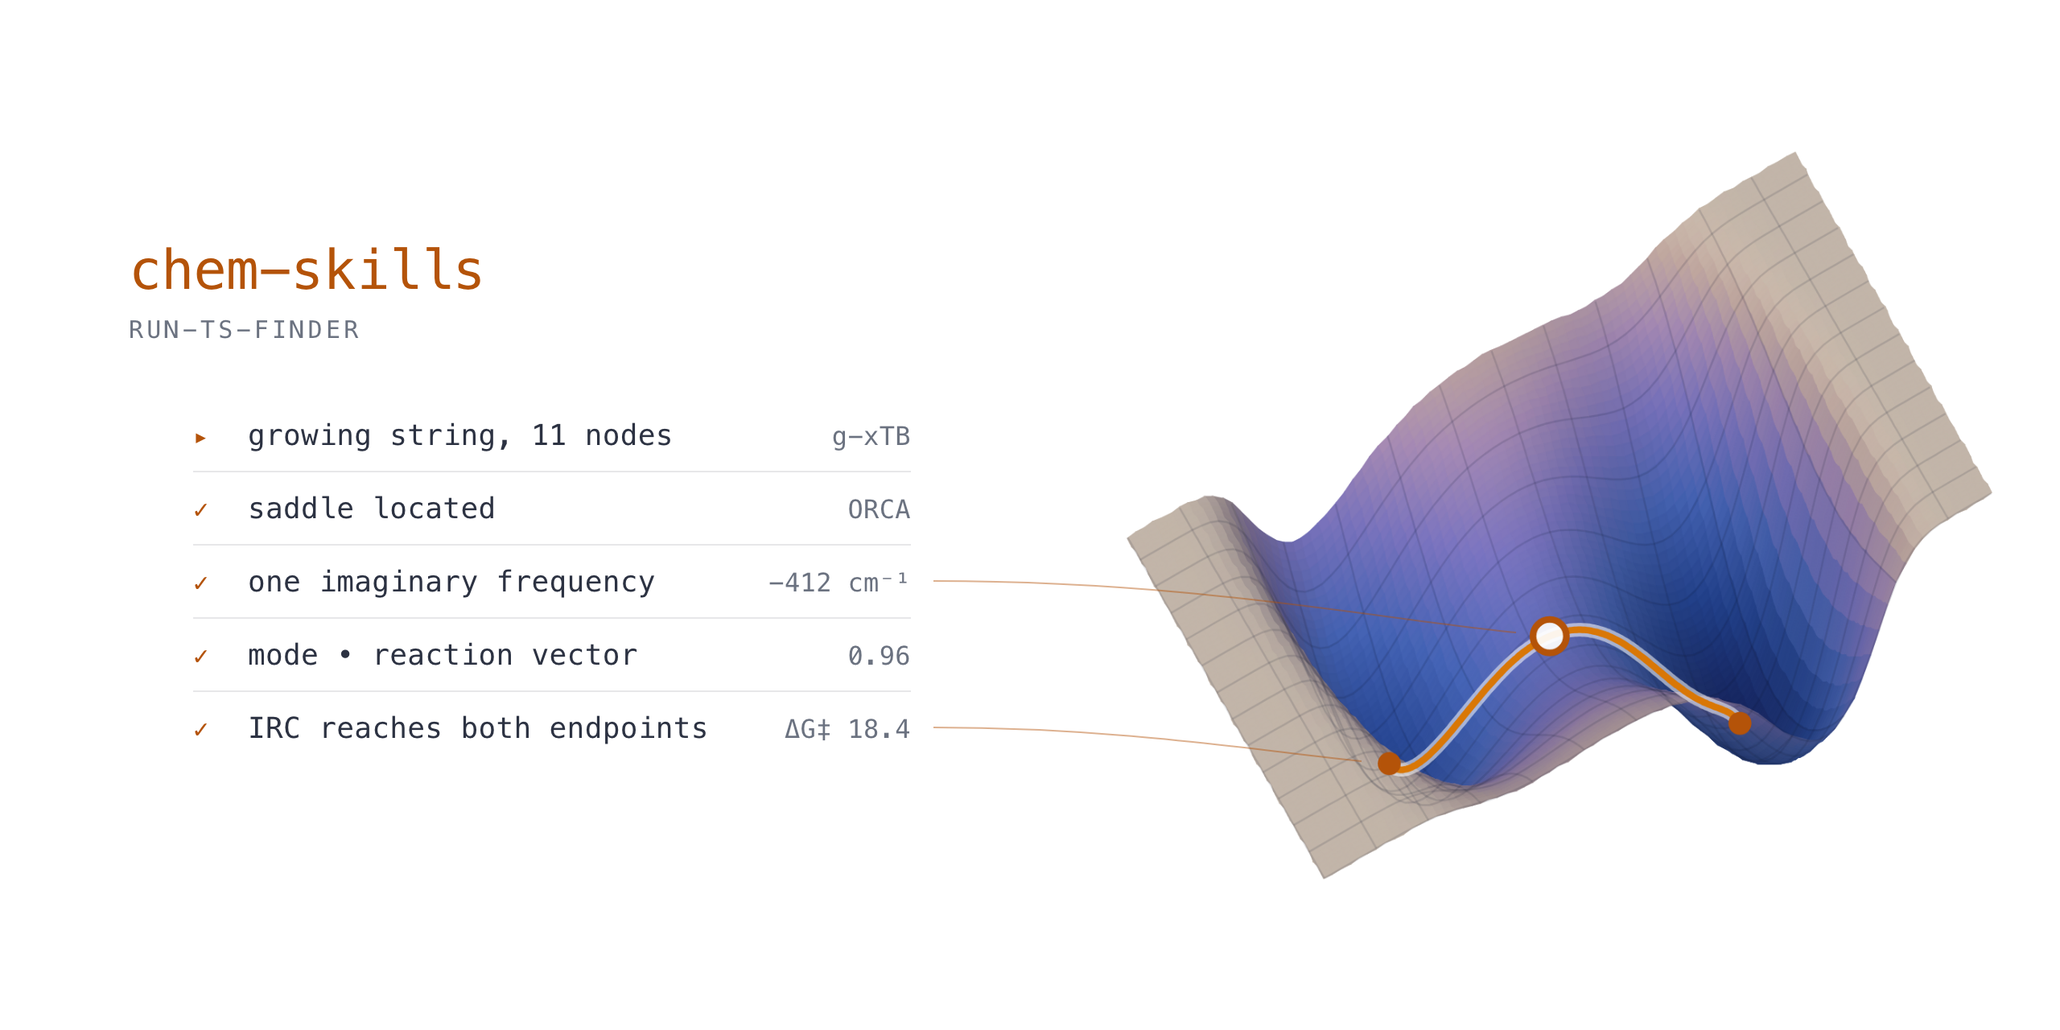
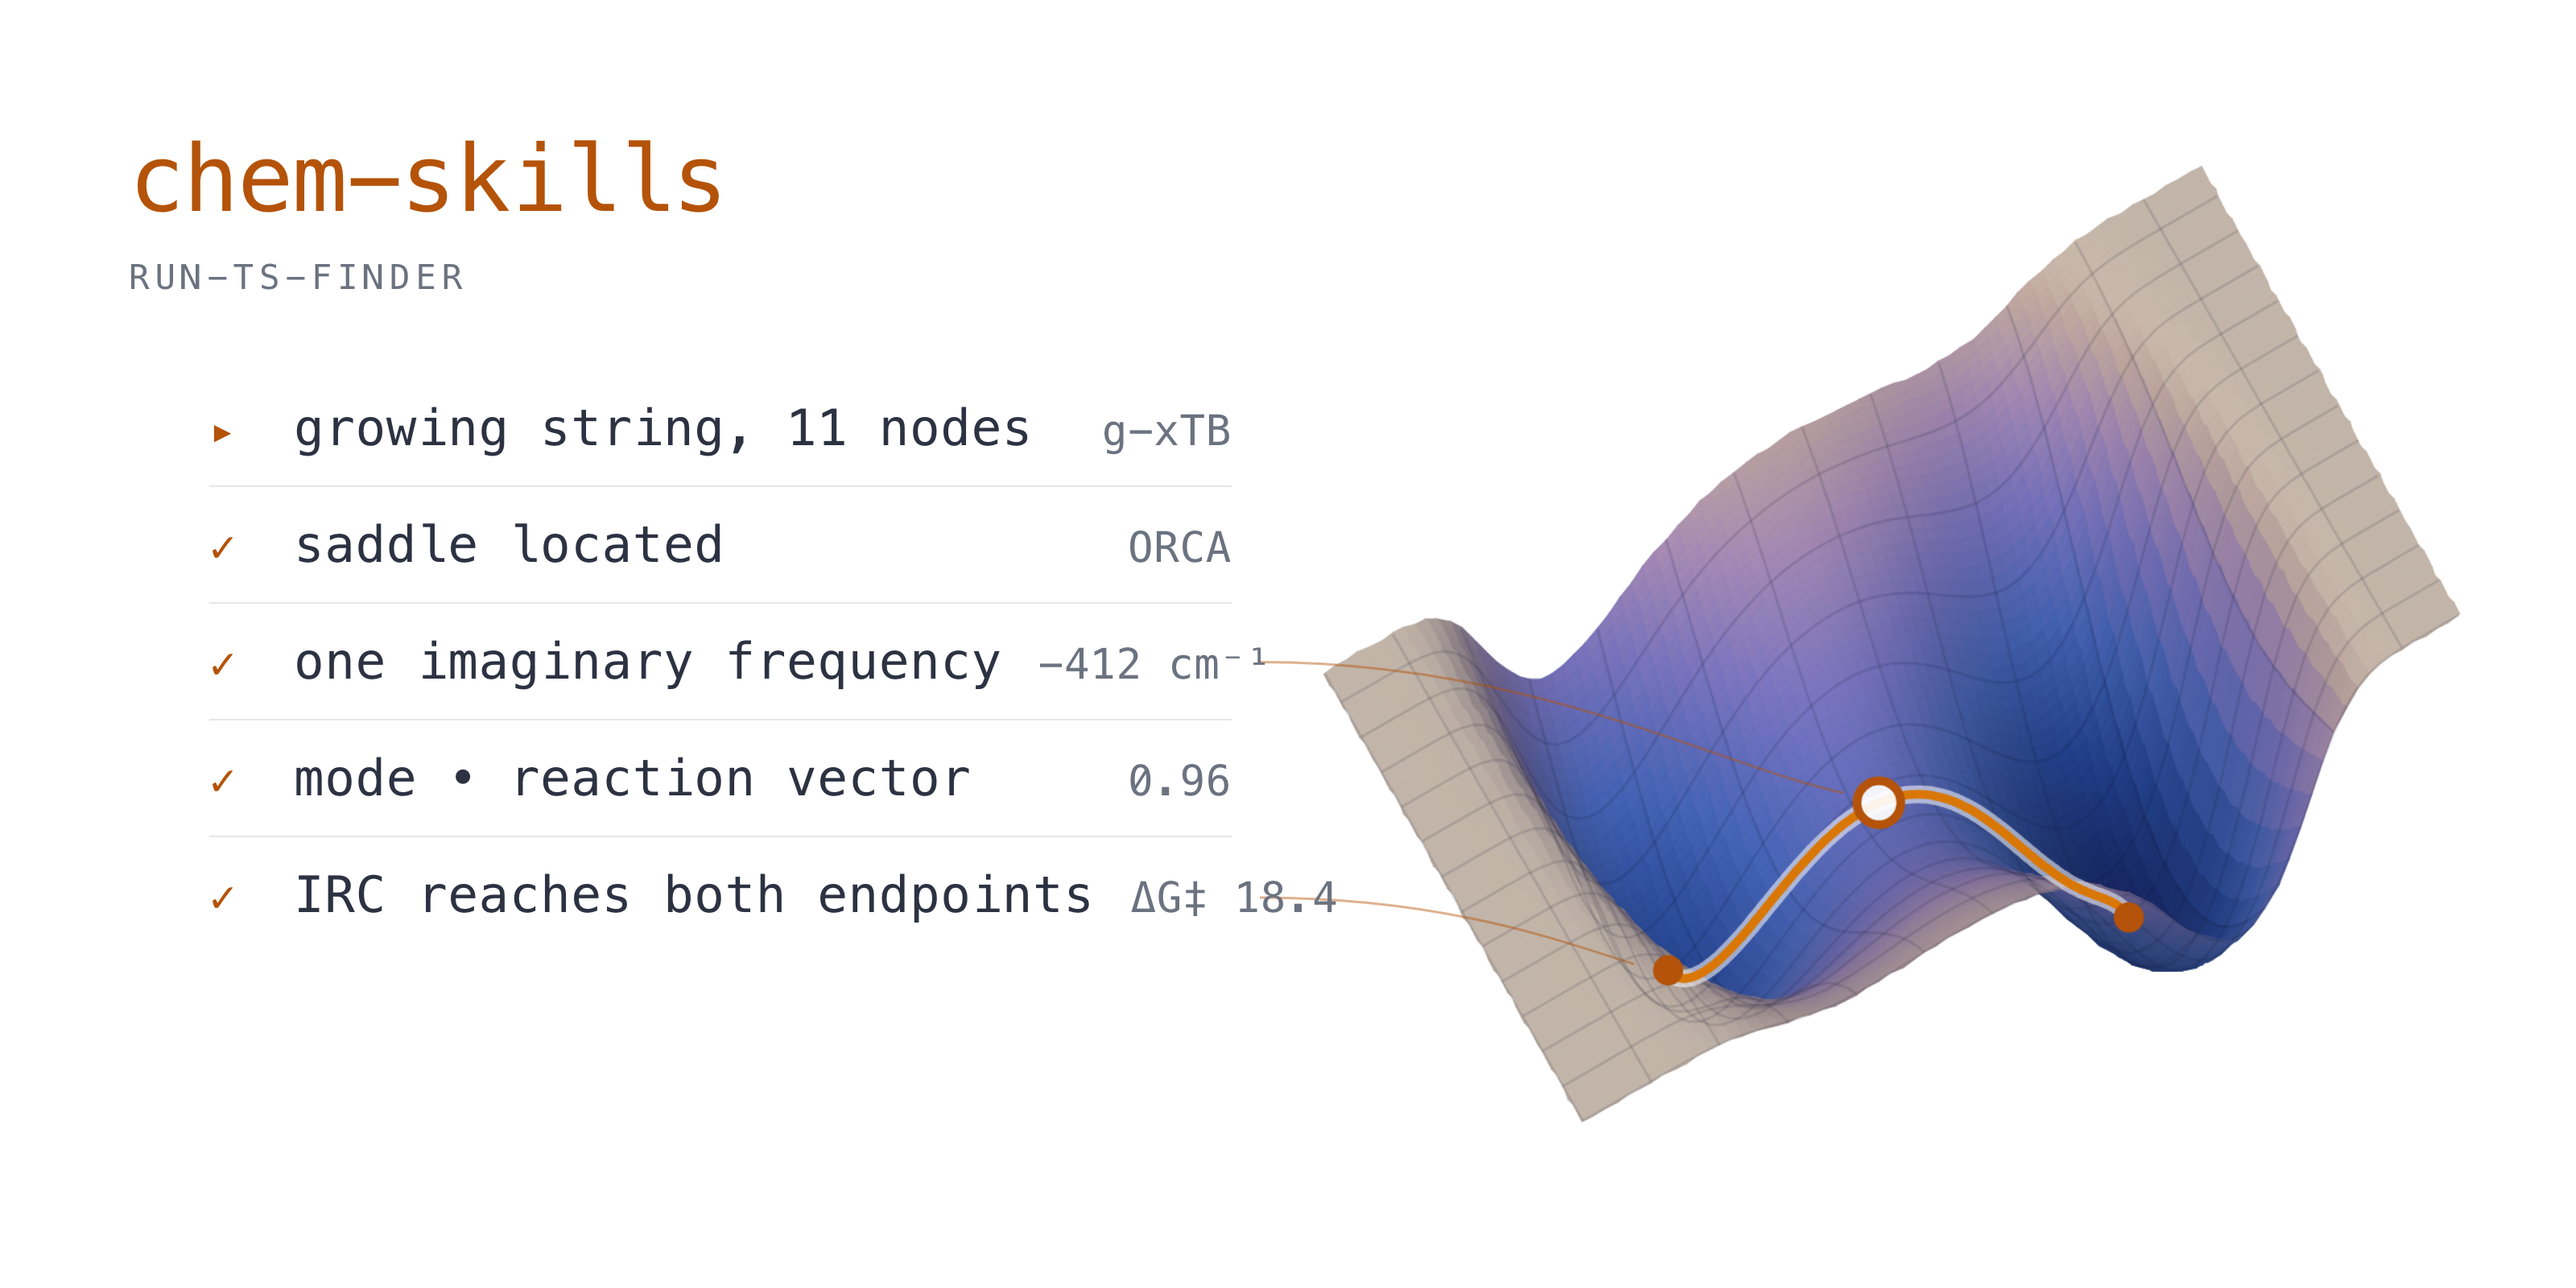
Tighten the header card and render it larger
The type was small inside the frame, so once GitHub scaled the image down
to the README column it read as soft rather than crisp - the fix is mostly
typographic, not a matter of pixels. The wordmark, the log and its values
all grow, the margins come in, and the surface is enlarged to meet them,
which takes most of the empty ground out of the frame.

Rendered at 2.5x rather than 2x: 3200x1600, and 854 KB, which stays under
the 1 MB ceiling on a repository social preview. 3x cleared that ceiling.

The two leader lines were anchored a row low. They now leave the imaginary
frequency and the IRC rows, which are the two they actually account for.

diff --git a/.github/social/social-preview.html b/.github/social/social-preview.html
@@ -5,25 +5,25 @@ html,body{width:1280px;height:640px;overflow:hidden;background:#ffffff}
 body{color:#16181d;font-family:'Instrument Sans',-apple-system,Arial,sans-serif;-webkit-font-smoothing:antialiased}
 .mono{font-family:'JetBrains Mono',ui-monospace,monospace}
 .frame{position:relative;width:1280px;height:640px}
-.surf{position:absolute;right:-104px;top:44px;width:830px;height:552px;
+.surf{position:absolute;right:-96px;top:-18px;width:872px;height:676px;
   background-image:url(surface.png);background-size:contain;
   background-repeat:no-repeat;background-position:center}
-.brand{position:absolute;left:80px;top:148px;font-size:34px;color:#b45309;letter-spacing:-.01em}
-.sub{position:absolute;left:80px;top:196px;font-size:15px;color:#6b7280;letter-spacing:.14em;text-transform:uppercase}
-.log{position:absolute;left:80px;top:248px;width:486px}
-.log li{list-style:none;display:flex;gap:16px;align-items:baseline;padding:12px 0;
-  border-bottom:1px solid rgba(16,24,40,.10);font-size:18px;letter-spacing:.01em}
+.brand{position:absolute;left:64px;top:66px;font-size:46px;color:#b45309;letter-spacing:-.015em;line-height:1}
+.sub{position:absolute;left:64px;top:128px;font-size:17px;color:#6b7280;letter-spacing:.16em;text-transform:uppercase}
+.log{position:absolute;left:64px;top:184px;width:548px}
+.log li{list-style:none;display:flex;gap:18px;align-items:baseline;padding:14px 0;
+  border-bottom:1px solid rgba(16,24,40,.11);font-size:25px;letter-spacing:.01em}
 .log li:last-child{border-bottom:0}
-.tick{width:18px;flex:none;color:#b45309;font-size:16px}
+.tick{width:24px;flex:none;color:#b45309;font-size:22px}
 .what{color:#2c3242;white-space:nowrap}
-.val{margin-left:auto;color:#6b7280;font-size:16px;white-space:nowrap}
+.val{margin-left:auto;color:#6b7280;font-size:21px;white-space:nowrap}
 .tie{position:absolute;left:0;top:0;width:1280px;height:640px}
 </style>
 <div class="frame">
   <div class="surf"></div>
-  <svg class="tie"><g stroke="#b45309" stroke-opacity=".45" stroke-width="1" fill="none">
-    <path d="M580 361 C742 361 852 384 942 393"/>
-    <path d="M580 452 C700 452 792 468 846 473"/>
+  <svg class="tie"><g stroke="#b45309" stroke-opacity=".45" stroke-width="1.2" fill="none">
+    <path d="M626 329 C762 329 852 380 916 394"/>
+    <path d="M626 446 C722 446 782 470 812 479"/>
   </g></svg>
   <p class="brand mono">chem-skills</p>
   <p class="sub mono">run-ts-finder</p>
